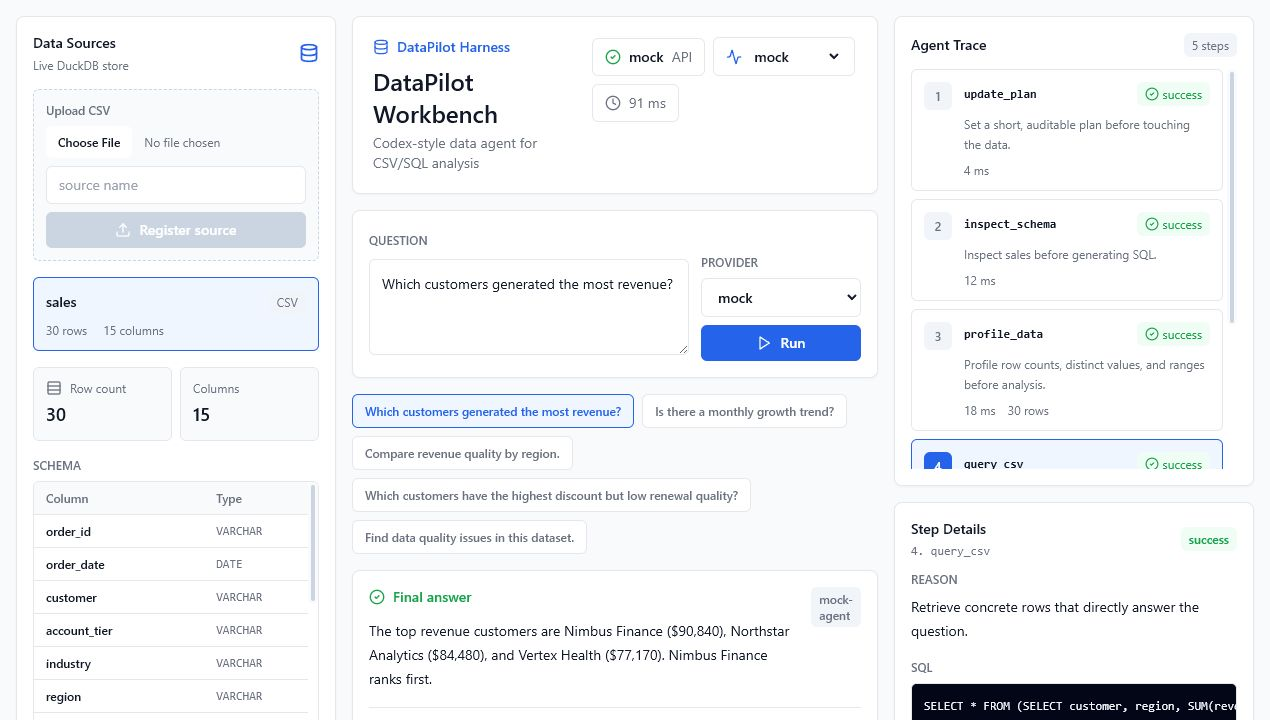
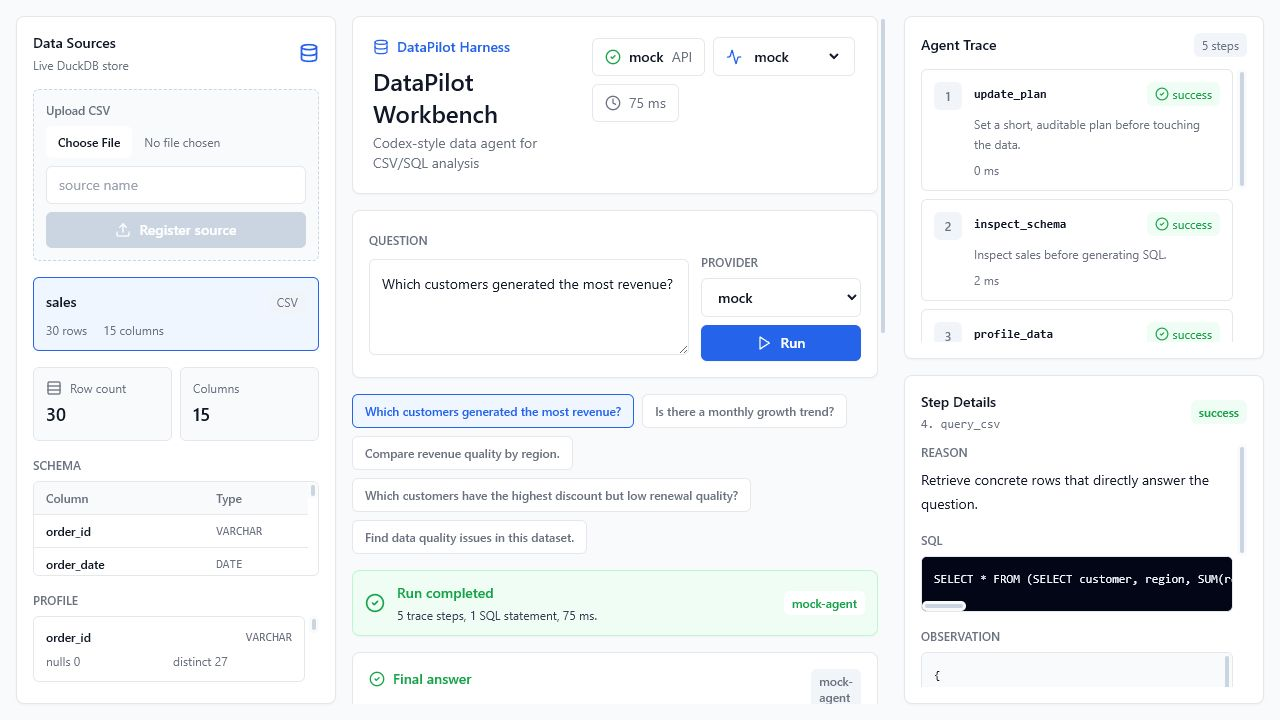
fix(ui): clarify run feedback and panel height

diff --git a/frontend/src/components/RunStatusBar.tsx b/frontend/src/components/RunStatusBar.tsx
@@ -1,0 +1,77 @@
+import { CheckCircle2, Loader2, PlayCircle } from "lucide-react";
+
+import type { ProviderName, RunResponse } from "../types";
+
+interface RunStatusBarProps {
+  state: "idle" | "running" | "completed" | "error";
+  provider: ProviderName;
+  run: RunResponse;
+}
+
+export function RunStatusBar({ state, provider, run }: RunStatusBarProps) {
+  if (state === "running") {
+    return (
+      <section className="rounded-lg border border-blue-200 bg-blue-50 p-3 shadow-panel">
+        <div className="flex items-center justify-between gap-3">
+          <div className="flex min-w-0 items-center gap-3">
+            <span className="flex h-9 w-9 shrink-0 items-center justify-center rounded-md bg-primary text-white">
+              <Loader2 className="h-5 w-5 animate-spin" />
+            </span>
+            <div className="min-w-0">
+              <div className="text-sm font-semibold text-primary">Run in progress</div>
+              <p className="mt-1 text-xs text-slate-700">
+                Planning actions, inspecting schema, generating SQL, and reading observations.
+              </p>
+            </div>
+          </div>
+          <span className="hidden rounded-md bg-white px-2 py-1 text-xs font-medium text-primary sm:inline-block">
+            {provider}
+          </span>
+        </div>
+        <div className="mt-3 h-1.5 overflow-hidden rounded-full bg-blue-100">
+          <div className="h-full w-2/3 animate-pulse rounded-full bg-primary" />
+        </div>
+      </section>
+    );
+  }
+
+  if (state === "completed" && run.completed) {
+    return (
+      <section className="flex items-center justify-between gap-3 rounded-lg border border-green-200 bg-green-50 p-3 shadow-panel">
+        <div className="flex min-w-0 items-center gap-3">
+          <CheckCircle2 className="h-5 w-5 shrink-0 text-success" />
+          <div className="min-w-0">
+            <div className="text-sm font-semibold text-success">Run completed</div>
+            <p className="mt-1 text-xs text-slate-700">
+              {run.trace.length} trace steps, {run.generated_sql.length} SQL statement
+              {run.generated_sql.length === 1 ? "" : "s"}, {run.latency_ms} ms.
+            </p>
+          </div>
+        </div>
+        <span className="hidden rounded-md bg-white px-2 py-1 text-xs font-medium text-success sm:inline-block">
+          {run.model}
+        </span>
+      </section>
+    );
+  }
+
+  if (state === "error") {
+    return (
+      <section className="rounded-lg border border-red-200 bg-red-50 p-3 text-sm font-medium text-danger shadow-panel">
+        Run stopped before a grounded answer. Check the trace details and observation errors.
+      </section>
+    );
+  }
+
+  return (
+    <section className="flex items-center gap-3 rounded-lg border border-line bg-card p-3 shadow-panel">
+      <PlayCircle className="h-5 w-5 shrink-0 text-primary" />
+      <div>
+        <div className="text-sm font-semibold text-ink">Ready to run</div>
+        <p className="mt-1 text-xs text-muted">
+          Press Run to create a new trace, SQL statement, result table, and grounded answer.
+        </p>
+      </div>
+    </section>
+  );
+}

diff --git a/frontend/src/App.tsx b/frontend/src/App.tsx
@@ -8,6 +8,7 @@ import { ErrorBanner } from "./components/ErrorBanner";
 import { HeaderBar } from "./components/HeaderBar";
 import { QuestionBox } from "./components/QuestionBox";
 import { ResultTable } from "./components/ResultTable";
+import { RunStatusBar } from "./components/RunStatusBar";
 import { SamplePrompts } from "./components/SamplePrompts";
 import { SqlViewer } from "./components/SqlViewer";
 import { TraceDetails } from "./components/TraceDetails";
@@ -23,6 +24,13 @@ const fallbackConfig: ConfigResponse = {
   api_mode: "static-demo",
 };
 
+async function waitForMinimumRun(startedAt: number, minimumMs = 650) {
+  const elapsed = performance.now() - startedAt;
+  if (elapsed < minimumMs) {
+    await new Promise((resolve) => window.setTimeout(resolve, minimumMs - elapsed));
+  }
+}
+
 export default function App() {
   const [sources, setSources] = useState<SourceSummary[]>([staticSource]);
   const [selectedSourceName, setSelectedSourceName] = useState(staticSource.source);
@@ -33,6 +41,9 @@ export default function App() {
   const [config, setConfig] = useState<ConfigResponse>(fallbackConfig);
   const [apiAvailable, setApiAvailable] = useState(false);
   const [isRunning, setIsRunning] = useState(false);
+  const [runState, setRunState] = useState<"idle" | "running" | "completed" | "error">(
+    "completed",
+  );
   const [error, setError] = useState<string | null>(null);
 
   useEffect(() => {
@@ -44,8 +55,10 @@ export default function App() {
         setProvider(nextConfig.default_provider);
         setApiAvailable(true);
         if (nextSources.length > 0) {
+          const preferredSource =
+            nextSources.find((source) => source.source === "sales") ?? nextSources[0];
           setSources(nextSources);
-          setSelectedSourceName(nextSources[0].source);
+          setSelectedSourceName(preferredSource.source);
         }
       } catch {
         setApiAvailable(false);
@@ -67,7 +80,9 @@ export default function App() {
       return;
     }
     setError(null);
+    setRunState("running");
     setIsRunning(true);
+    const startedAt = performance.now();
     try {
       if (!apiAvailable) {
         const demoRun = {
@@ -76,8 +91,10 @@ export default function App() {
           run_id: `static-${Date.now()}`,
           provider,
         };
+        await waitForMinimumRun(startedAt);
         setRun(demoRun);
         setSelectedStep(demoRun.trace[demoRun.trace.length - 2] ?? demoRun.trace[0]);
+        setRunState("completed");
         return;
       }
       const response = await createRun({
@@ -85,10 +102,14 @@ export default function App() {
         sources: selectedSource ? [selectedSource.source] : [],
         provider,
       });
+      await waitForMinimumRun(startedAt);
       setRun(response);
       setSelectedStep(response.trace[response.trace.length - 2] ?? response.trace[0]);
+      setRunState(response.completed ? "completed" : "error");
     } catch (runError) {
+      await waitForMinimumRun(startedAt);
       setError(runError instanceof Error ? runError.message : "Run failed.");
+      setRunState("error");
     } finally {
       setIsRunning(false);
     }
@@ -121,7 +142,7 @@ export default function App() {
         />
       }
       center={
-        <main className="flex min-h-0 flex-1 flex-col gap-4">
+        <main className="flex min-h-0 flex-1 flex-col gap-4 lg:pb-4">
           <HeaderBar
             config={config}
             apiAvailable={apiAvailable}
@@ -144,6 +165,7 @@ export default function App() {
             activePrompt={question}
             onSelectPrompt={setQuestion}
           />
+          <RunStatusBar state={runState} provider={provider} run={run} />
           <AnswerCard answer={run.answer} plan={run.plan} model={run.model} />
           {run.result_tables[0] ? (
             <ResultTable table={run.result_tables[0]} />
@@ -154,7 +176,7 @@ export default function App() {
         </main>
       }
       right={
-        <aside className="flex min-h-0 flex-col gap-4">
+        <aside className="flex h-full min-h-0 flex-col gap-4">
           <TraceTimeline
             steps={run.trace}
             selectedStep={selectedStep}

diff --git a/frontend/src/components/QuestionBox.tsx b/frontend/src/components/QuestionBox.tsx
@@ -1,4 +1,4 @@
-import { Play } from "lucide-react";
+import { Loader2, Play } from "lucide-react";
 
 import type { ProviderName } from "../types";
 
@@ -49,13 +49,17 @@ export function QuestionBox({
             ))}
           </select>
           <button
-            className="inline-flex items-center justify-center gap-2 rounded-md bg-primary px-4 py-2 text-sm font-semibold text-white disabled:cursor-not-allowed disabled:bg-slate-300"
+            className="inline-flex items-center justify-center gap-2 rounded-md bg-primary px-4 py-2 text-sm font-semibold text-white shadow-sm transition hover:bg-blue-700 disabled:cursor-wait disabled:bg-primary disabled:opacity-80"
             disabled={isRunning}
             onClick={onRun}
             type="button"
           >
-            <Play className="h-4 w-4" />
-            {isRunning ? "Running" : "Run"}
+            {isRunning ? (
+              <Loader2 className="h-4 w-4 animate-spin" />
+            ) : (
+              <Play className="h-4 w-4" />
+            )}
+            {isRunning ? "Running analysis" : "Run"}
           </button>
         </div>
       </div>

diff --git a/frontend/src/components/AppShell.tsx b/frontend/src/components/AppShell.tsx
@@ -8,15 +8,15 @@ interface AppShellProps {
 
 export function AppShell({ left, center, right }: AppShellProps) {
   return (
-    <div className="min-h-screen w-full overflow-x-hidden bg-canvas text-ink">
-      <div className="grid min-h-screen w-full min-w-0 max-w-full grid-cols-1 gap-4 p-4 lg:grid-cols-[320px_minmax(520px,1fr)_360px]">
-        <aside className="min-h-0 w-full min-w-0 max-w-[calc(100vw-2rem)] lg:max-w-none">
+    <div className="min-h-screen w-full overflow-x-hidden bg-canvas text-ink lg:h-screen lg:overflow-hidden">
+      <div className="grid min-h-screen w-full min-w-0 max-w-full grid-cols-1 gap-4 p-4 lg:h-screen lg:grid-cols-[320px_minmax(520px,1fr)_360px]">
+        <aside className="min-h-0 w-full min-w-0 max-w-[calc(100vw-2rem)] lg:h-[calc(100vh-2rem)] lg:max-w-none">
           {left}
         </aside>
-        <section className="min-h-0 w-full min-w-0 max-w-[calc(100vw-2rem)] lg:max-w-none">
+        <section className="min-h-0 w-full min-w-0 max-w-[calc(100vw-2rem)] lg:h-[calc(100vh-2rem)] lg:max-w-none lg:overflow-y-auto">
           {center}
         </section>
-        <section className="min-h-0 w-full min-w-0 max-w-[calc(100vw-2rem)] lg:max-w-none">
+        <section className="min-h-0 w-full min-w-0 max-w-[calc(100vw-2rem)] lg:h-[calc(100vh-2rem)] lg:max-w-none">
           {right}
         </section>
       </div>

diff --git a/frontend/src/components/DataSourcePanel.tsx b/frontend/src/components/DataSourcePanel.tsx
@@ -24,7 +24,7 @@ export function DataSourcePanel({
   const profileColumns = selectedSource?.profile?.columns.slice(0, 5) ?? [];
 
   return (
-    <div className="flex h-full min-h-[640px] w-full min-w-0 max-w-full flex-col gap-4 overflow-hidden rounded-lg border border-line bg-card p-4 shadow-panel">
+    <div className="flex h-full min-h-[640px] w-full min-w-0 max-w-full flex-col gap-4 overflow-hidden rounded-lg border border-line bg-card p-4 shadow-panel lg:min-h-0">
       <div className="flex items-center justify-between">
         <div>
           <h2 className="text-sm font-semibold text-ink">Data Sources</h2>
@@ -86,11 +86,13 @@ export function DataSourcePanel({
             </div>
           </div>
 
-          <SchemaTable schema={selectedSource.schema} />
+          <div className="min-h-0 flex-[1.25]">
+            <SchemaTable schema={selectedSource.schema} />
+          </div>
 
-          <section className="min-h-0">
+          <section className="flex min-h-0 flex-1 flex-col">
             <h3 className="mb-2 text-xs font-semibold uppercase text-muted">Profile</h3>
-            <div className="max-h-48 space-y-2 overflow-auto pr-1">
+            <div className="min-h-0 flex-1 space-y-2 overflow-auto pr-1">
               {profileColumns.map((column) => (
                 <div key={column.name} className="min-w-0 rounded-md border border-line bg-white p-3">
                   <div className="flex items-center justify-between gap-2 text-xs">

diff --git a/frontend/src/components/SchemaTable.tsx b/frontend/src/components/SchemaTable.tsx
@@ -6,9 +6,9 @@ interface SchemaTableProps {
 
 export function SchemaTable({ schema }: SchemaTableProps) {
   return (
-    <section className="min-h-0">
+    <section className="flex h-full min-h-0 flex-col">
       <h3 className="mb-2 text-xs font-semibold uppercase text-muted">Schema</h3>
-      <div className="max-h-64 max-w-full overflow-auto rounded-md border border-line">
+      <div className="min-h-0 max-w-full flex-1 overflow-auto rounded-md border border-line">
         <table className="w-full border-collapse text-left text-xs">
           <thead className="sticky top-0 bg-slate-50 text-muted">
             <tr>

diff --git a/frontend/src/components/TraceDetails.tsx b/frontend/src/components/TraceDetails.tsx
@@ -6,7 +6,7 @@ interface TraceDetailsProps {
 
 export function TraceDetails({ step }: TraceDetailsProps) {
   return (
-    <section className="min-h-0 flex-1 rounded-lg border border-line bg-card p-4 shadow-panel">
+    <section className="flex min-h-0 flex-1 flex-col rounded-lg border border-line bg-card p-4 shadow-panel">
       <div className="mb-3 flex items-center justify-between gap-3">
         <div>
           <h2 className="text-sm font-semibold text-ink">Step Details</h2>
@@ -22,7 +22,7 @@ export function TraceDetails({ step }: TraceDetailsProps) {
           {step.status}
         </span>
       </div>
-      <div className="space-y-4">
+      <div className="min-h-0 flex-1 space-y-4 overflow-auto pr-1">
         <div>
           <div className="text-xs font-semibold uppercase text-muted">Reason</div>
           <p className="mt-2 text-sm leading-6 text-ink">{step.reason}</p>

diff --git a/frontend/src/components/TraceTimeline.tsx b/frontend/src/components/TraceTimeline.tsx
@@ -11,14 +11,14 @@ interface TraceTimelineProps {
 
 export function TraceTimeline({ steps, selectedStep, onSelectStep }: TraceTimelineProps) {
   return (
-    <section className="min-h-0 rounded-lg border border-line bg-card p-4 shadow-panel">
+    <section className="flex min-h-0 flex-[1.05] flex-col rounded-lg border border-line bg-card p-4 shadow-panel">
       <div className="mb-3 flex items-center justify-between">
         <h2 className="text-sm font-semibold text-ink">Agent Trace</h2>
         <span className="rounded-md bg-slate-100 px-2 py-1 text-xs text-muted">
           {steps.length} steps
         </span>
       </div>
-      <div className="max-h-[400px] space-y-2 overflow-auto pr-1">
+      <div className="min-h-0 flex-1 space-y-2 overflow-auto pr-1">
         {steps.map((step) => {
           const active = selectedStep.step === step.step;
           return (

diff --git a/frontend/src/demo/staticRun.ts b/frontend/src/demo/staticRun.ts
@@ -103,6 +103,7 @@ const query =
 
 export const staticRun: RunResponse = {
   run_id: "static-demo",
+  completed: true,
   provider: "mock",
   model: "mock-agent",
   question: samplePrompts[0],

diff --git a/frontend/src/types.ts b/frontend/src/types.ts
@@ -51,6 +51,7 @@ export interface ResultTableData {
 
 export interface RunResponse {
   run_id: string;
+  completed: boolean;
   provider: ProviderName;
   model: string;
   question: string;

diff --git a/datapilot/api/main.py b/datapilot/api/main.py
@@ -63,6 +63,7 @@ class RunRequest(BaseModel):
 
 class RunResponse(BaseModel):
     run_id: str
+    completed: bool
     provider: str
     model: str
     question: str
@@ -203,6 +204,7 @@ def create_app(*, preload_examples: bool = True) -> FastAPI:
         run_id = uuid.uuid4().hex
         response = RunResponse(
             run_id=run_id,
+            completed=result.completed,
             provider=provider,
             model=getattr(llm, "model", "unknown"),
             question=request.question,